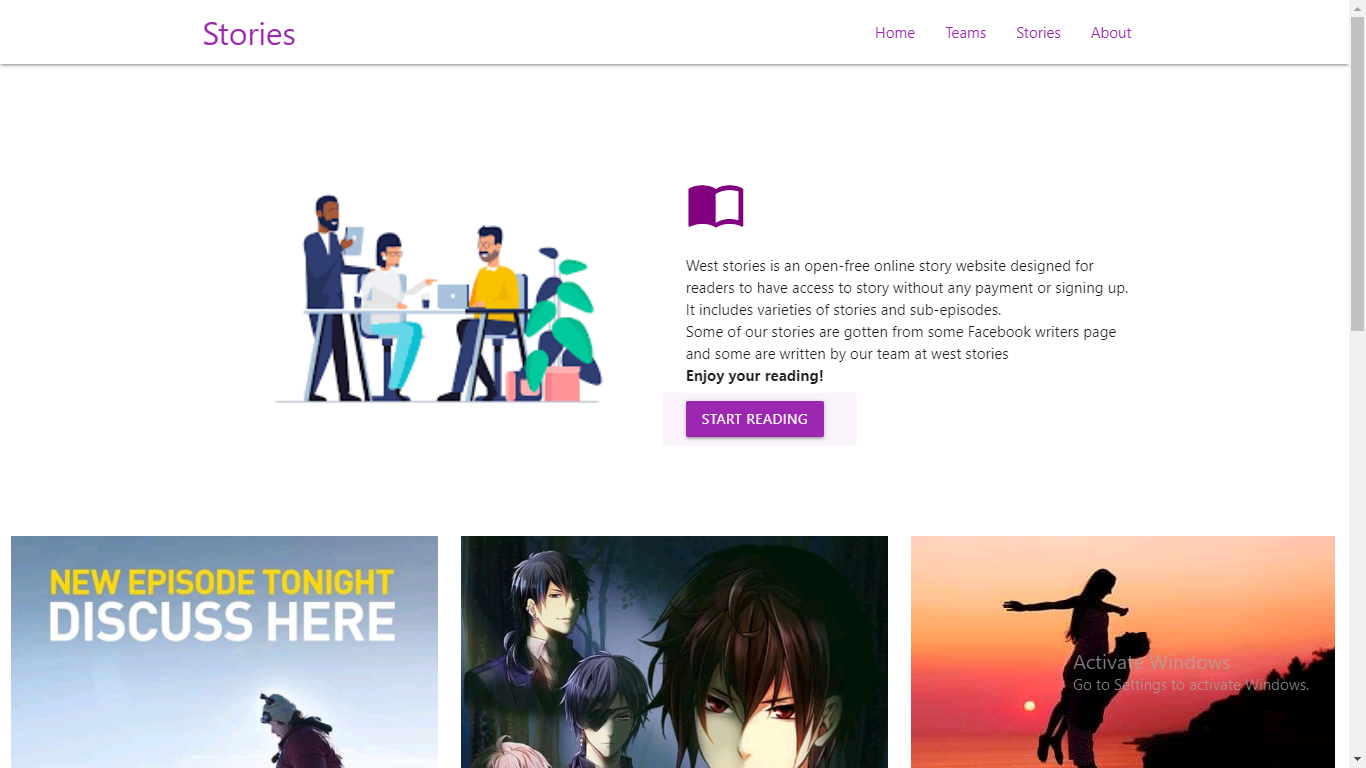
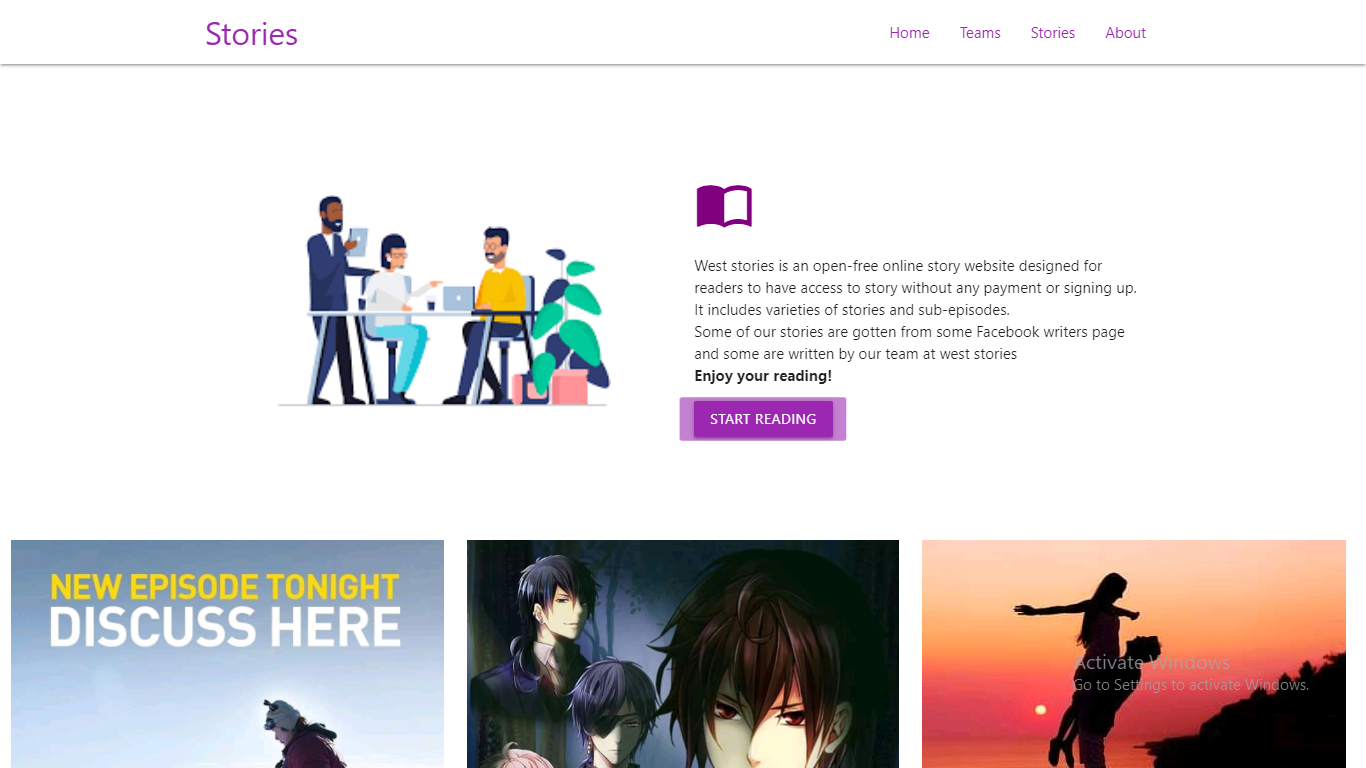
styles

diff --git a/css/index.css b/css/index.css
@@ -328,11 +328,49 @@ a{
     background: var(--card-bg-color);
     border-radius: .7rem;
     transition: .3s;
+    cursor: pointer;
+    position: relative;
+    z-index: 0;
+    border: none;
 }
-.hire-now:hover{
-    box-shadow: 0 8px 12px 0 rgba(0,0,0,0.2);
-    margin-top: -3px;
+.hire-now:before {
+    content: '';
+    background: linear-gradient(45deg, #ff0000, #ff7300, #fffb00, #48ff00, #00ffd5, #002bff, #7a00ff, #ff00c8, #ff0000);
+    position: absolute;
+    top: -2px;
+    left:-2px;
+    background-size: 400%;
+    z-index: -1;
+    filter: blur(5px);
+    width: calc(100% + 4px);
+    height: calc(100% + 4px);
+    animation: glowing 20s linear infinite;
+    opacity: 0;
+    transition: opacity .3s ease-in-out;
+    border-radius: 10px;
 }
+.hire-now:hover:before {
+    opacity: 1;
+}
+.hire-now:after {
+    z-index: -1;
+    content: '';
+    position: absolute;
+    width: 100%;
+    height: 100%;
+    background: var(--card-bg-color);
+    left: 0;
+    top: 0;
+    border-radius: 10px;
+}
+
+@keyframes glowing {
+    0% { background-position: 0 0; }
+    50% { background-position: 400% 0; }
+    100% { background-position: 0 0; }
+}
+
+
 .nav-links{
     text-decoration: none;
     display: block;
@@ -399,6 +437,12 @@ button{
 button:hover{
     transform: translateY(-5px);
     box-shadow: 0 8px 12px 0 rgba(0,0,0,0.2);
+}
+.hero-button button:hover{
+    transform: translateY(-5px);
+    background-color: transparent;
+    border-color: var(--banner-button);
+    box-shadow: 0 0 10px 0 var(--banner-button) inset, 0 0 10px 4px var(--banner-button);
 }
 
 
@@ -533,6 +577,12 @@ button:hover{
     background: var(--small-card-button-color); 
     color: var(--dark-mode-bg-color);
 }
+.smaller-card button:hover{
+    transform: translateY(-5px);
+    background-color: transparent;
+    color: var(--dark-mode-text-color);
+    box-shadow: 0 0 10px 0 var(--small-card-button-color) inset, 0 0 10px 4px var(--small-card-button-color);
+}
 
 
 /* people's comment section */
@@ -633,14 +683,59 @@ button:hover{
     border-radius: .9rem;
     background: var(--card-outro-bg); 
 }
-.card-outro>button{
+.card-outro button{
     background-color: var(--outro-button-bg);
     color: var(--dark-mode-text-color);
     font-weight: 600;
+    cursor: pointer;
+    position: relative;
+    z-index: 0;
+    border: none;
     font-size: 16px;
     transition: all .3s ease-in-out;
     padding: .75rem 2.5rem;
 }
+.card-outro button:before {
+    content: '';
+    background: linear-gradient(45deg, #ff0000, #ff7300, #fffb00, #48ff00, #00ffd5, #002bff, #7a00ff, #ff00c8, #ff0000);
+    position: absolute;
+    top: -2px;
+    left:-2px;
+    background-size: 400%;
+    z-index: -1;
+    filter: blur(5px);
+    width: calc(100% + 4px);
+    height: calc(100% + 4px);
+    animation: glowing 20s linear infinite;
+    opacity: 0;
+    transition: opacity .3s ease-in-out;
+    border-radius: 10px;
+}
+.card-outro button:active {
+    color: var(--dark-mode-text-color)
+}
+.card-outro button:active:after {
+    background: transparent;
+}
+.card-outro button:hover:before {
+    opacity: 1;
+}
+.card-outro button:after {
+    z-index: -1;
+    content: '';
+    position: absolute;
+    width: 100%;
+    height: 100%;
+    background-color: var(--outro-button-bg);    left: 0;
+    top: 0;
+    border-radius: 10px;
+}
+@keyframes glowing {
+    0% { background-position: 0 0; }
+    50% { background-position: 400% 0; }
+    100% { background-position: 0 0; }
+}
+
 .card-outro h1{
     font-size: 2.5rem;
     padding-bottom: .4em;
@@ -865,7 +960,7 @@ footer{
 /* media queries for helpers classes */
 @media (min-width: 1400px) {
     .container {
-        width: 1300px;
+        width: 1350px;
         margin-right: auto;
         margin-left: auto;
     }

diff --git a/project.html b/project.html
@@ -149,7 +149,7 @@
         <!-- project 2  -->
         <div class="project">
                 <div class="image-container">
-                    <img src="img/project-pikpics.png" alt="">
+                    <img src="img/project-pikpic.png" alt="">
 
                     <div class="tag">
                         <span>React</span>
@@ -187,7 +187,7 @@
         <!-- project 4 -->
         <div class="project">
                 <div class="image-container">
-                    <img src="img/travel-project.png" alt="">
+                    <img src="img/project-travel.png" alt="">
 
                     <div class="tag">
                         <span>HTML</span>
@@ -198,6 +198,24 @@
                 <div class="project-info">
                     <h1>Imran's Travel</h1>
                     <p>This is a website template for a travel website i created using Html, Css and JS. It's a beautiful; and colorful website.</p>
+                    <a href="imran-travel-website.vercel.app">Visit this website <ion-icon name="enter-outline"></ion-icon></a>
+                </div>
+        </div>
+
+        <!-- project 5 -->
+        <div class="project">
+                <div class="image-container">
+                    <img src="img/project-japan.png" alt="">
+
+                    <div class="tag">
+                        <span>React</span>
+                        <span>CSS</span>
+                        <span>Figma</span>
+                    </div>
+                </div>
+                <div class="project-info">
+                    <h1>Japan Travel</h1>
+                    <p>This is a website template derived from a figma design, and implemented with React.</p>
                     <a href="imran-travel-website.vercel.app">Visit this website <ion-icon name="enter-outline"></ion-icon></a>
                 </div>
         </div>

diff --git a/index.html b/index.html
@@ -313,11 +313,11 @@
                     We love working with imran! He is a cool headed guy and calm. I've always believed in him and proud of his achievements over the years
                     <div class="commentor">
                         <div class="profile-image">
-                            <img src="img/logo-white-bg.png" alt="">
+                            <img src="img/kamal.jpeg" alt="">
                         </div>  
 
                         <div class="statements">
-                            <h3 class="c-name">Kamal Habib</h3>
+                            <h3 class="c-name">Kamal Yusuf</h3>
                             <p>Managing Director</p>
                         </div>
 

diff --git a/css/about-page.css b/css/about-page.css
@@ -1,10 +1,4 @@
-:root{
-    --card-outro-bg: purple;
-}
-.white-mode{
-    --card-outro-bg: #1d976c;
-}
-
+@import url(index.css);
 /* container class */
 .containers {
     padding-right: 15px;
